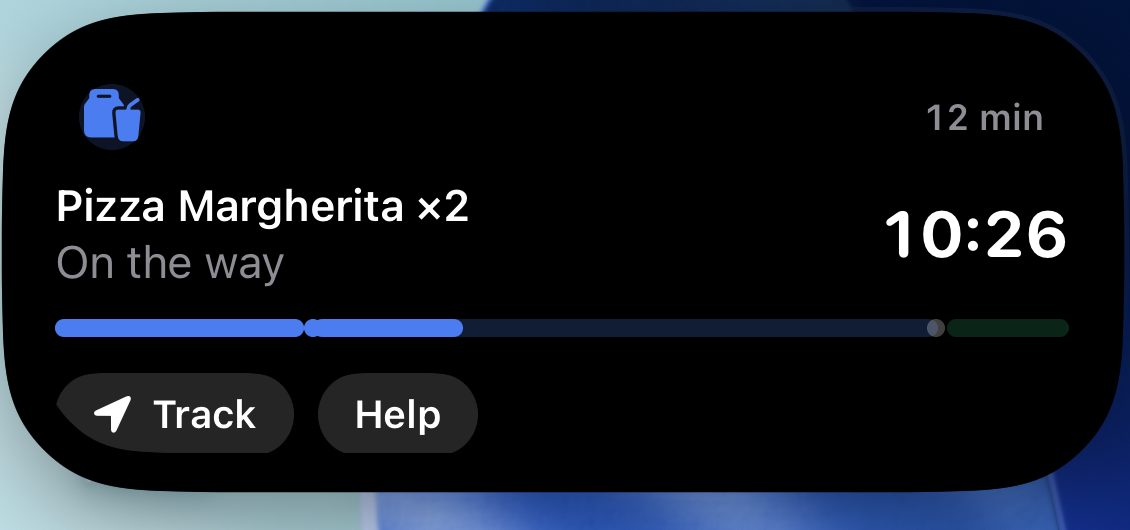
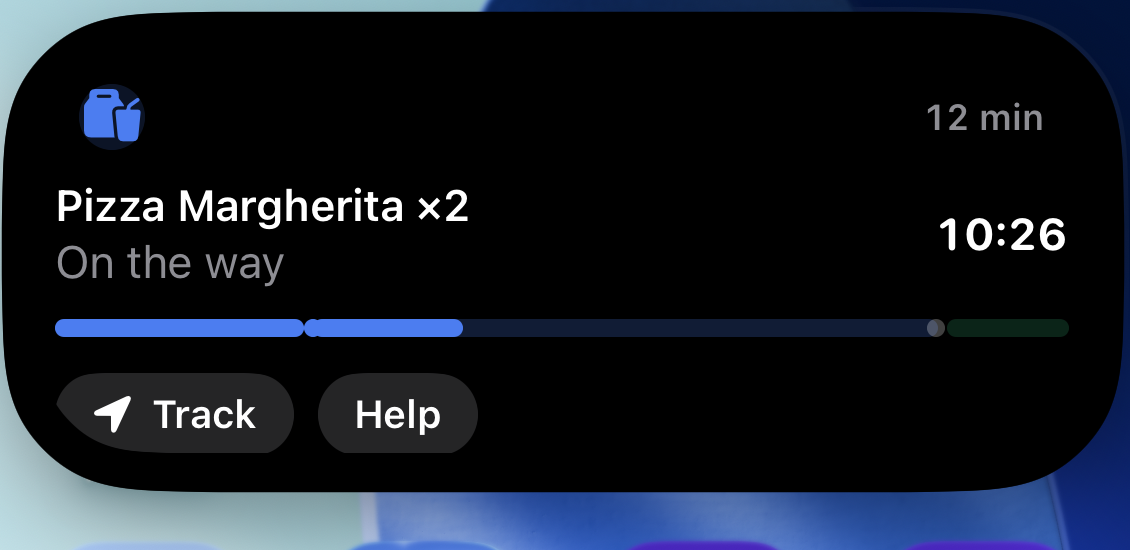
Widget: action row inset from the island's bottom curve
The bottom corner radius was shaving the action capsules sitting flush
against the edge — the row now carries its own bottom inset (only when
actions exist, so cards without buttons stay compact). Docs screenshot
refreshed.

diff --git a/Source/Nalu.Maui.LiveActivities/nuget/widget/NaluLiveActivitiesWidget/NaluLiveActivityWidget.swift b/Source/Nalu.Maui.LiveActivities/nuget/widget/NaluLiveActivitiesWidget/NaluLiveActivityWidget.swift
@@ -251,6 +251,8 @@ private struct ActionRow: View {
         let actions = content.renderableActions
 
         if !actions.isEmpty {
+            // Extra bottom inset: the island's bottom corner radius shaves capsules
+            // sitting flush against the edge.
             HStack(spacing: 8) {
                 ForEach(Array(actions.enumerated()), id: \.offset) { _, action in
                     let (label, icon, url) = action
@@ -273,6 +275,7 @@ private struct ActionRow: View {
                 }
             }
             .padding(.top, 2)
+            .padding(.bottom, 8)
         }
     }
 }
